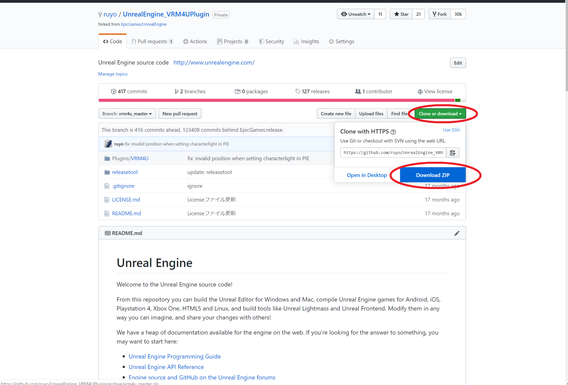
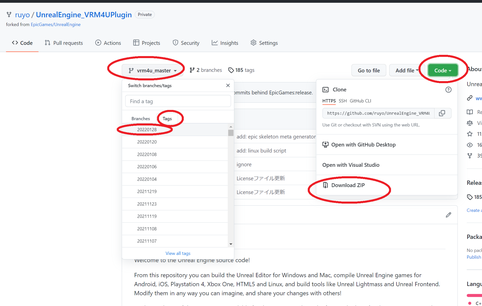
ソースのTAGを追記

diff --git a/VRM4U/03_exe.md b/VRM4U/03_exe.md
@@ -39,6 +39,9 @@ https://www.unrealengine.com/ja/blog/updated-authentication-process-for-connecti
 |[![](./assets/images/small/03e_con.png)](../assets/images/03e_con.png)|
 
 
+Branch(左上の赤丸)をTagに切り替え、ビルド済バイナリの日付と同じものを選択します。
+その後、ソースをダウンロードしてください。
+
 ||
 |-|
 |[![](./assets/images/small/03e_exe.png)](../assets/images/03e_exe.png)|
